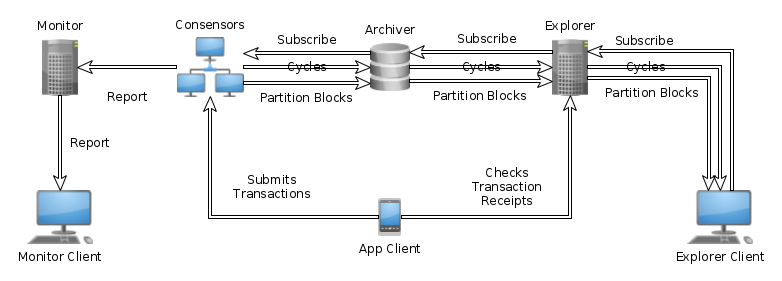
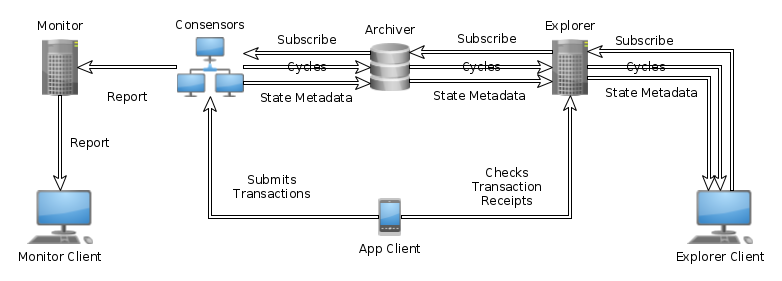
Updated state metadata docs

Changed region(s): [[0.5524, 0.3132, 0.6752, 0.3701], [0.3376, 0.3132, 0.4604, 0.3701], [0.7673, 0.3132, 0.89, 0.3416]]

diff --git a/docs/state-metadata/state-metadata.md b/docs/state-metadata/state-metadata.md
@@ -1,0 +1,81 @@
+# State Metadata
+
+## Necessary Context
+
+2 kinds of partitions:
+  * Data partitions
+  * Summary Partitions
+
+\# of data partitions = # of nodes
+
+\# of summary partitions = const 64 for now (powers of 2 in the future)
+
+When a node joins the network, stats summary partitions are computed once, then
+updated with each tx
+
+## Metadata Flow
+
+0. Archivers subscribe to Consensors to receive updates. Explorers subscribe to
+   Archivers to receive updates.
+
+</br>
+<div align="center">
+  <img src="state-metadata-fig-1.png" alt="State Metadata Flow">
+</div>
+</br>
+
+1. When all the txs for a cycle have settled, all Consensors gossip and collect
+   3 kinds of partition hashes for that cycle:
+
+   1. `data_hash_n = hash([account_1_hash, account_2_hash, ...])`  
+      The hash of all account hashes in data partition block `n`
+   2. `receipt_hash_n = hash(receipt_map)`  
+      The hash of the receipt map in data partition block `n`
+   3. `summary_hash_n = hash(summary_blob)`  
+      The hash of the app defined summary blob in summary partition block `n`
+
+2. When a Consensor has collected the hashes for all partition blocks in a given
+   cycle, it uses them to compute 3 network level hashes for that cycle:
+
+   1. `network_data_hash = hash([data_hash_1, data_hash_2, ...])`  
+      The hash of all data partition block `data_hash`es in a given cycle
+   2. `network_receipt_hash = hash([receipt_hash_1, receipt_hash_2, ...])`  
+      The hash of all data partition block `receipt_hash`es in a given cycle
+   3. `network_summary_hash = hash([summary_hash_1, summary_hash_2, ...])`  
+       The hash of all summary partition block `summay_hash`es in a given cycle
+
+3. When a Consensor has computed a network level hash for a cycle:
+
+     * that network level hash. Ex: `network_data_hash`
+     * and the partition level hashes used to compute the network hash. Ex:  
+       `[data_hash_1, data_hash_2, ...]`
+
+   are signed and sent as an update to the Consensors subscriber. Ex:  
+
+4. When an Archiver gets a:
+
+     * `network_receipt_hash` (+ supporting hashes) update
+     * or a `network_summary_hash` (+ supporting hashes) update
+
+   from a Consensor for a cycle, the Archiver figures out and queries all
+   Consensors needed to collect additional data:
+
+     * For a `network_receipt_hash` update, receipt maps from all data partition
+       blocks in the cycle. Ex:  
+       `[receipt_map_1, receipt_map_2, ...]`  
+       
+     * For a `network_summary_hash` update, summary blobs from all summary
+       partition blocks in the cycle. Ex:  
+       `[summary_blob_1, summary_blob_2, ...]`  
+   
+   If an Archiver gets a `network_data_hash` update, it doesn't need to collect
+   any additional data.
+
+   Once additional data is collected, the signed update from the Consensor
+   (+ any collected data) is forwarded to Explorers subscribed to the Archiver.
+
+5. When an Explorer gets an update from an Archiver, the update's signature is
+   validated against the Explorer's node list, and additional data is parsed:
+
+     * `receipt_map`s are indexed and used to validate tx receipts
+     * `summary_blob`s are reduced in an app specified way and served
